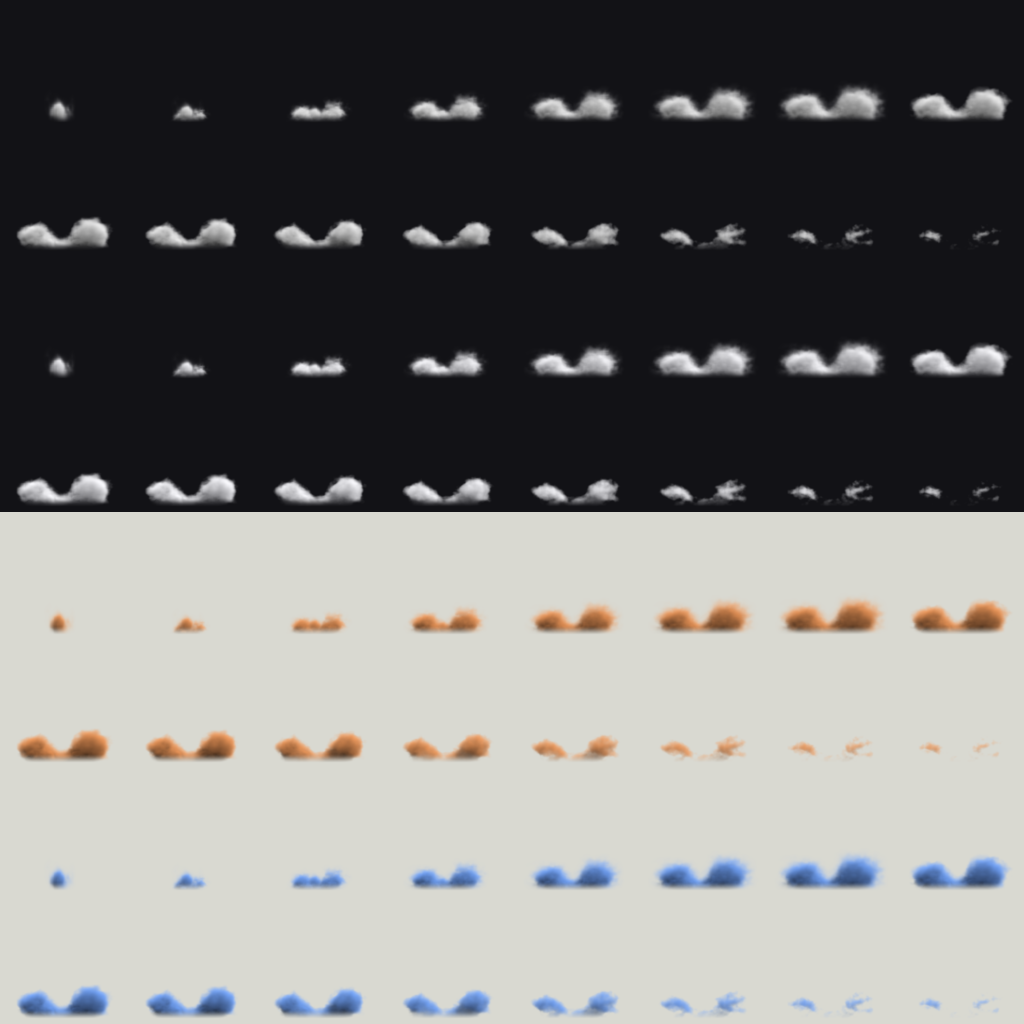
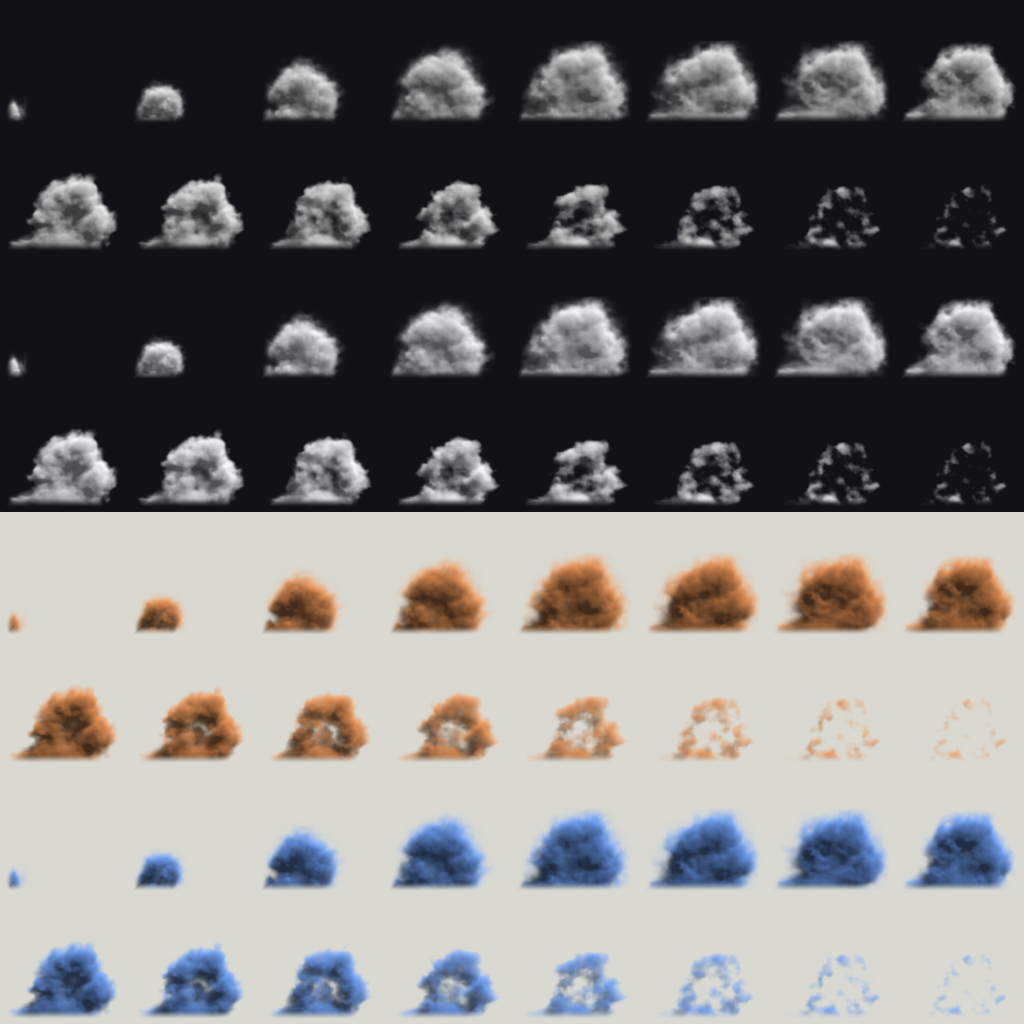
VFX ticket V1.1, VfxDustRoll try again: a rolling dust wave. A slam at the left sends a front to the right that billows into a tall rolling curl (a ring of cloudlets orbiting a core, top turning forward, with spray over it), leaving a low tapering body and wisps behind, the floor at the bottom of ev

diff --git a/art/scripts/vfx/tex_smoke.py b/art/scripts/vfx/tex_smoke.py
@@ -89,14 +89,14 @@ SIM["VfxSmokePlume"] = dict(
 )
 
 SIM["VfxDustRoll"] = dict(
-    # NOT a gas simulation (said in the Log): five baked sims of a floor burst (a ball, two jets, jets under a low
-    # ceiling, a slumping block, a heavy block) each rolled the dust up into lobes, a bush or a film instead of
-    # along the floor. So this is the volume route: a cast of billowing cloudlets flown out along the floor with
-    # drag (the fast ones are the head, the slow ones the body, long wisps trail), lit, eroded and packed like the
-    # others.
-    grid=8, mode="oneshot", cell=128, procedural="dust", frames=64, dims=(260, 36, 104),
+    # NOT a gas simulation (said in the Log): six baked sims of a floor burst (a ball, jets, jets under a ceiling,
+    # slumping blocks) all rolled the dust up into lobes or a bush, or slumped it into a film. So this is the volume
+    # route: a slam at the left sends a rolling wave to the right. The head is a ring of cloudlets orbiting a core
+    # (a torus seen from the side, the top turning forward), a low tapering body is left behind with wisps, spray
+    # stands over the head, and the rising cut eats it into islands. Lit and packed like the others.
+    grid=8, mode="oneshot", cell=128, procedural="dust", frames=64, dims=(240, 36, 152),
     look=dict(
-        sigma=lambda life: 0.24, sun=1.0, amb=0.55, fill=0.18, k_sun=0.5, k_amb=0.12, follow="floor", fit=0.82,
+        sigma=lambda life: 0.24, sun=1.0, amb=0.55, fill=0.18, k_sun=0.5, k_amb=0.12, follow="floor", fit=0.92,
         box_alpha=0.15,
     ),
 )
@@ -450,96 +450,106 @@ def mist_volume(k, n, dims):
 
 
 _DUST = {}
+DUST_X = (-0.1, 2.3)  # the grid's x range in the dust's own units (the hit is at x = 0, the wave runs to the right)
+DUST_Z = 1.45
 
 
-def dust_puffs(seed=4):
-    """The made-up cast of a dust roll, fixed by a seed: per side a run of cloudlets that leave the hit at different
-    speeds (so the fastest are the head and the slow ones are the body), the front ones bigger and rising, plus long
-    low wisps trailing behind. Each is (x end, radius end, rise, launch, speed, hardness, lump offset, kind)."""
+def dust_cast(seed=31):
+    """The made-up parts of the roll, fixed by a seed: the head is a ring of cloudlets that orbits a core (a rolling
+    torus seen from the side), the body is low flat sheets and long wisps that the head leaves behind, and a few puffs
+    of spray stand over the head."""
     rng = np.random.default_rng(seed)
-    cast = []
-    for side, scale in ((1.0, 1.0), (-1.0, 0.86)):
-        for i in range(22):
-            far = rng.uniform(0.22, 1.0) ** 0.8  # how far it ends (1 = the head)
-            cast.append(dict(side=side, kind="puff", x=0.70 * scale * far + rng.normal(0, 0.03),
-                             r=0.05 + 0.17 * far ** 0.9 * rng.uniform(0.65, 1.25), rise=0.30 * far ** 2.2 * rng.uniform(0.4, 1.2),
-                             t0=rng.uniform(0.0, 0.07), tau=rng.uniform(0.12, 0.2), y=rng.normal(0, 0.07),
-                             amp=rng.uniform(0.75, 1.0), off=rng.uniform(0, 60, 3)))
-        for i in range(9):  # the body: low flat sheets of dust between the hit and the head
-            far = rng.uniform(0.12, 0.62)
-            cast.append(dict(side=side, kind="sheet", x=0.70 * scale * far, r=0.07 + 0.04 * rng.random(), rise=0.02 * rng.random(),
-                             t0=rng.uniform(0.0, 0.08), tau=rng.uniform(0.14, 0.22), y=rng.normal(0, 0.08),
-                             amp=rng.uniform(0.55, 0.8), off=rng.uniform(0, 60, 3)))
-        for i in range(10):  # the trailing wisps: long, low, faint, left behind
-            far = rng.uniform(0.2, 0.8)
-            cast.append(dict(side=side, kind="wisp", x=0.72 * scale * far, r=0.045 + 0.04 * rng.random(), rise=0.03 * rng.random(),
-                             t0=rng.uniform(0.02, 0.16), tau=rng.uniform(0.14, 0.24), y=rng.normal(0, 0.08),
-                             amp=rng.uniform(0.35, 0.6), off=rng.uniform(0, 60, 3)))
-    return cast
+    ring = [dict(th=2 * np.pi * i / 20 + rng.normal(0, 0.12), rr=rng.uniform(0.85, 1.15), y=rng.normal(0, 0.09),
+                 sz=rng.uniform(0.8, 1.25), off=rng.uniform(0, 60, 3)) for i in range(20)]
+    sheets = [dict(x=rng.uniform(0.15, 1.0), R=0.0, t0=rng.uniform(0.0, 0.1), tau=rng.uniform(0.14, 0.24),
+                   y=rng.normal(0, 0.1), amp=rng.uniform(0.6, 0.9), off=rng.uniform(0, 60, 3), kind="sheet") for i in range(16)]
+    for sh in sheets:
+        sh["R"] = 0.06 + 0.10 * sh["x"]
+    wisps = [dict(x=rng.uniform(0.05, 0.85), R=0.05 + 0.04 * rng.random(), t0=rng.uniform(0.04, 0.2),
+                  tau=rng.uniform(0.14, 0.26), y=rng.normal(0, 0.1), amp=rng.uniform(0.35, 0.6), off=rng.uniform(0, 60, 3),
+                  kind="wisp") for i in range(10)]
+    spray = [dict(ang=np.radians(rng.uniform(-10, 85)), dist=rng.uniform(1.15, 1.6), R=rng.uniform(0.06, 0.12),
+                  y=rng.normal(0, 0.1), amp=rng.uniform(0.7, 1.0), off=rng.uniform(0, 60, 3), lag=rng.uniform(0.0, 0.1))
+             for i in range(8)]
+    return dict(ring=ring, body=sheets + wisps, spray=spray)
 
 
 def dust_volume(k, n, dims):
-    """Frame k of n of dust rolling along the floor from a hit at the middle. The cast of cloudlets (dust_puffs) is
-    flown out along the floor with drag (fast ones stop far, slow ones near), each growing and billowing with lumps
-    that belong to it, thinning as it spreads; the hit's own puff stands over the origin and sinks; then the rising
-    cut eats the whole thing from its thin parts first into islands. Index order (x, depth, up); z = 0 is the floor."""
-    if "lump" not in _DUST:
+    """Frame k of n of dust rolling along the floor from a slam at the left, seen from the side: the front runs to the
+    right and billows up into a tall rolling curl (a ring of cloudlets orbiting a core, top turning forward), the body
+    it leaves behind is a long low wedge that tapers to the left and sinks into wisps; lumps belong to each cloudlet;
+    the rising cut at the end eats the whole thing from its thin parts into islands. Index (x, depth, up), z = 0 floor."""
+    if "cast" not in _DUST:
+        _DUST["cast"] = dust_cast()
         _DUST["lump"] = lump_tile(9)
-        _DUST["cast"] = dust_puffs()
-    tile, cast = _DUST["lump"], _DUST["cast"]
+    cast, tile = _DUST["cast"], _DUST["lump"]
     nx, ny, nz = dims
     tau = k / (n - 1)
-    gx = np.linspace(-1.3, 1.3, nx, dtype=np.float32)
-    gy = np.linspace(-0.3, 0.3, ny, dtype=np.float32)
-    gz = np.linspace(0.0, 1.04, nz, dtype=np.float32)
-    free = np.ones((nx, ny, nz), dtype=np.float32)  # 1 - (union of cloudlets): they merge instead of adding up
+    gx = np.linspace(DUST_X[0], DUST_X[1], nx, dtype=np.float32)
+    gy = np.linspace(-0.35, 0.35, ny, dtype=np.float32)
+    gz = np.linspace(0.0, DUST_Z, nz, dtype=np.float32)
+    free = np.ones((nx, ny, nz), dtype=np.float32)  # 1 - the union of the cloudlets: they merge instead of adding
     sx, sy, sz = gx[1] - gx[0], gy[1] - gy[0], gz[1] - gz[0]
 
-    def splat(cx, cy, cz, rx, ry, rz, amp, off, lumpy_scale):
-        x0, x1 = max(0, int((cx - 2.3 * rx + 1.3) / sx)), min(nx, int((cx + 2.3 * rx + 1.3) / sx) + 2)
-        y0, y1 = max(0, int((cy - 2.3 * ry + 0.3) / sy)), min(ny, int((cy + 2.3 * ry + 0.3) / sy) + 2)
-        z0, z1 = 0, min(nz, int((cz + 2.3 * rz) / sz) + 2)
-        if x1 <= x0 or y1 <= y0 or z1 <= z0:
+    def splat(cx, cy, cz, rx, ry, rz, amp, off, scale):
+        x0, x1 = max(0, int((cx - 2.3 * rx - DUST_X[0]) / sx)), min(nx, int((cx + 2.3 * rx - DUST_X[0]) / sx) + 2)
+        y0, y1 = max(0, int((cy - 2.3 * ry + 0.35) / sy)), min(ny, int((cy + 2.3 * ry + 0.35) / sy) + 2)
+        z1 = min(nz, int((cz + 2.3 * rz) / sz) + 2)
+        if x1 <= x0 or y1 <= y0 or z1 <= 0:
             return
         X = (gx[x0:x1] - cx)[:, None, None]
         Y = (gy[y0:y1] - cy)[None, :, None]
-        Z = (gz[z0:z1] - cz)[None, None, :]
+        Z = (gz[0:z1] - cz)[None, None, :]
         r2 = (X / rx) ** 2 + (Y / ry) ** 2 + (Z / rz) ** 2
-        # the lumps belong to the cloudlet: a noise cube looked up relative to its centre and size
-        qx = ((X / rx * lumpy_scale + off[0]).astype(np.int64)) % TILE_N
-        qy = ((Y / ry * lumpy_scale + off[1]).astype(np.int64)) % TILE_N
-        qz = ((Z / rz * lumpy_scale + off[2]).astype(np.int64)) % TILE_N
+        qx = ((X / rx * scale + off[0]).astype(np.int64)) % TILE_N
+        qy = ((Y / ry * scale + off[1]).astype(np.int64)) % TILE_N
+        qz = ((Z / rz * scale + off[2]).astype(np.int64)) % TILE_N
         n3 = tile[qx, qy, qz]
-        body = np.exp(-r2 * (0.9 + 1.7 * (1.0 - n3)))  # the lumps pinch the surface in, so the edge is cauliflower
+        body = np.exp(-r2 * (0.9 + 1.7 * (1.0 - n3)))  # the lumps pinch the surface in: a torn, cauliflower edge
         d = amp * np.clip(body * (0.35 + 1.3 * n3), 0, 1.4)
-        free[x0:x1, y0:y1, z0:z1] *= np.clip(1.0 - np.clip(d, 0, 1), 0, 1)
+        free[x0:x1, y0:y1, 0:z1] *= np.clip(1.0 - np.clip(d, 0, 1), 0, 1)
 
-    for c in cast:
+    # --- the head: a ring of cloudlets orbiting a core that runs forward
+    g = min(tau / 0.26, 1.0)
+    hs = 0.10 + 0.90 * (1 - (1 - g) ** 2.2)  # born small, full by about a fifth of the life
+    run = min(tau / 0.36, 1.0)
+    head_x = 0.10 + 0.95 * (1 - (1 - run) ** 2.0) + 0.07 * tau
+    Rh, rc = 0.40 * hs, 0.21 * hs
+    head_z = 0.95 * Rh + 0.07
+    spin = 2 * np.pi * 1.15 * min(tau, 0.85)  # the top turns forward, the underside back along the floor
+    for c in cast["ring"]:
+        th = c["th"] - spin
+        cx = head_x + Rh * c["rr"] * np.cos(th)
+        cz = head_z + Rh * c["rr"] * np.sin(th) * 1.28  # a little taller than wide: a curl, not a wheel
+        R = rc * c["sz"]
+        splat(cx, c["y"], cz, R * 1.15, R * 1.3, R * 0.95, 1.0, c["off"], 13.0)
+    splat(head_x, 0.0, head_z, Rh * 0.62, Rh * 0.8, Rh * 0.62, 0.62, np.array([3.0, 7.0, 11.0]), 11.0)  # the core, thin
+    for c in cast["spray"]:  # puffs flung up and ahead from the head's top
+        t = max(0.0, tau - c["lag"])
+        sc = min(t / 0.2, 1.0)
+        cx = head_x + np.cos(c["ang"]) * Rh * c["dist"] * sc
+        cz = head_z + np.sin(c["ang"]) * Rh * 1.2 * c["dist"] * sc + 0.02
+        if sc > 0:
+            splat(cx, c["y"], cz, c["R"] * hs * 2.2, c["R"] * hs * 2.4, c["R"] * hs * 2.0, c["amp"] * min(1.0, sc * 3), c["off"], 14.0)
+    # --- the body the head leaves behind: low sheets and wisps, nearer the origin the thinner
+    for c in cast["body"]:
         t = tau - c["t0"]
         if t <= 0:
             continue
         move = 1 - np.exp(-t / c["tau"])
-        cx = c["side"] * (0.02 + (c["x"] - 0.02) * move)
-        grow = 1 - np.exp(-t / (c["tau"] * 1.3))
-        R = 0.02 + (c["r"] - 0.02) * grow
-        cz = 0.7 * R + c["rise"] * move
-        if c["kind"] == "puff":
-            amp = c["amp"] * min(1.0, t / 0.025) * (0.03 / R) ** 0.55 * 1.9
-            splat(cx, c["y"], cz, R * 1.15, R * 1.3, R * 0.95, amp, c["off"], 13.0)
-        elif c["kind"] == "sheet":
-            amp = c["amp"] * min(1.0, t / 0.03) * (0.06 / R) ** 0.4
-            splat(cx, c["y"], 0.8 * R + c["rise"] * move, R * 3.4, R * 1.5, R * 1.25, amp, c["off"], 14.0)
-        else:  # a wisp: stretched along the floor and thin
-            amp = c["amp"] * min(1.0, t / 0.04) * (0.05 / R) ** 0.4
-            splat(cx, c["y"], 0.5 * R, R * 3.2, R * 1.2, R * 0.55, amp, c["off"], 16.0)
-    # the hit's own puff over the origin: stands up fast, then sinks into the roll
-    hz = 0.09 + 0.10 * np.exp(-tau * 6.0)
-    splat(0.0, 0.0, hz, 0.13 + 0.05 * tau, 0.15, hz * 1.1, 1.15 * (1 - smoothstep(0.08, 0.34, tau)), np.array([5.0, 9.0, 13.0]), 8.0)
+        cx = 0.04 + (c["x"] * min(1.0, head_x / 1.05)) * move
+        R = 0.02 + (c["R"] - 0.02) * (1 - np.exp(-t / (c["tau"] * 1.3)))
+        if c["kind"] == "sheet":
+            splat(cx, c["y"], 0.8 * R, R * 3.4, R * 1.5, R * 1.25, c["amp"] * min(1.0, t / 0.03) * (0.07 / R) ** 0.35, c["off"], 14.0)
+        else:
+            splat(cx, c["y"], 0.5 * R, R * 3.6, R * 1.2, R * 0.55, c["amp"] * min(1.0, t / 0.04), c["off"], 16.0)
+    # the slam's own puff over the origin: stands up fast and sinks into the body
+    hz = 0.08 + 0.10 * np.exp(-tau * 6.0)
+    splat(0.06, 0.0, hz, 0.12, 0.14, hz * 1.1, 1.1 * (1 - smoothstep(0.06, 0.32, tau)), np.array([5.0, 9.0, 13.0]), 9.0)
     d = 1.0 - free
-    # the rising cut: eaten from its thin parts first, in lumps, islands at the end
-    if tau > 0.40:
-        cut = 3.4 * ((tau - 0.40) / 0.60) ** 1.1
-        eat = N.fbm3(gx[:, None, None] * 4.0 + 3.0 * tau, gz[None, None, :] * 5.0, gy[None, :, None] * 4.0, octaves=4, seed=77)
+    if tau > 0.42:  # eaten from its thin parts first, in lumps, islands at the end
+        cut = 3.2 * ((tau - 0.42) / 0.58) ** 1.1
+        eat = N.fbm3(gx[:, None, None] * 3.5 + 3.0 * tau, gz[None, None, :] * 4.5, gy[None, :, None] * 4.0, octaves=4, seed=77)
         d = np.maximum(d - cut * (0.12 + 0.55 * (0.5 + eat)), 0.0)
     return blur3(d.astype(np.float32))
 

diff --git a/docs/handoff/vfx-rework-plan-2026-11-16.md b/docs/handoff/vfx-rework-plan-2026-11-16.md
@@ -631,3 +631,4 @@ verdict where there was a gate.)
 - 2026-11-17, V1.7 meshes, the MESH half (art/scripts/vfx/meshes.py, new art/scripts/vfx/check_meshes.py, art/export/previews/vfx/after/meshes_uv_sheet.png; no Luau, nothing to sync or import yet; the Fx import comes at the end of Stage 1). The one UV rule now: u runs ONCE round the shape's axis (0 to 1, seam on +X, closed, one lattice step wide like every column), v runs UP it (0 at the base or foot, 1 at the tip; Blender's v counts up, so an upright picture stands upright). Per shape, what the UV did before and does now: VfxRing (flat: u round once, v inner edge 0 to outer 1; was u across, v round twice), VfxDome (u round once, v rim 0 to top 1; was swapped, v round twice), VfxTube (u once, v foot 0 to top 1; was u twice round, v = 1 - up), VfxCone (same; the old text said v 0 at the foot, the code gave 1), VfxSwirl (a helical band: u along the ribbon once from its foot, v across from lower edge 0 to upper 1; was u across, v along three times), VfxCrescent (a band: u along from tail 0 to head 1, v across from inner 0 to outer cutting edge 1; was u across, v along with 1 at the tail), VfxSphere (u once, v south pole 0 to north 1; was u twice, v = 1 - up; its rows stop 0.4% short of the poles, a hole nothing shows, and a texture pinches there), VfxShard (the lower point's u sat on a face's edge so each lower face's picture leaned; now the middle of its column, and each belt vertex's v is its own height instead of 0.45), VfxRock (was a plan view, u = x, v = y, so its sides smeared; now round the Z axis, v lowest to highest, the faces over the +X seam cut in two there, 25 triangles instead of 20, nothing stretches). Unchanged because they already followed the rule: VfxSpikes (each spike u round, v root 0 to tip 1) and VfxPage (flat: u across, v up). Nothing in `src` puts a texture on any of these but the Manual's page (Godhood.luau), which did not change, so no caller's look moved. Three new shapes, added to BUILDERS (so the NEXT full export carries them): VfxSlashArc (a 100 degree blade of radius 1 centred on +X in the ground's plane, 0.01 wide at both tips, 0.31 in the middle, cupped 0.3 of its width; u along the arc tail 0 to head 1, v across inner 0 to outer cutting edge 1; 384 triangles), VfxTwister (a funnel open at both ends, radius 0.12 at its foot z 0 to 1 at its top z 2, the wall three lobes that twist 1.25 turns up it and swell as they rise, the axis wandering 0.06; u round once along the lobes' own spiral, v foot 0 to top 1; 1152 triangles), VfxShell (a full sphere of radius 1 drawn on both sides, 32 by 16; each pole is ONE vertex with a fan whose corner takes the middle of its own column, so seen from above the pole is a clean fan and nothing swirls; the last 1/16 of the texture's rows at each end is the pole cap, so a texture for it keeps its top and bottom rows quiet; 1920 triangles). A thing found on the way and fixed for every doubled shape: a face and its back twin share every vertex, so Blender gave their corner normals as zero vectors or the front's pushed onto the back (corner normal against its own face normal: -1.00 on ring, dome, tube, cone, swirl, crescent, page). Neon and ForceField hide this; a lit SurfaceAppearance texture would shade wrongly. `_two_sided_normals` now sets custom normals (the front faces' average at each place, the back face the opposite); every doubled shape reads 0.7 to 1.00 and the normals survive an FBX export and re-import into a scratch folder (the repo's FBX was not touched). check_meshes (`blender -b --factory-startup --python art/scripts/vfx/check_meshes.py -- [--no-render] [--scratch DIR] [--sheet PNG]`), 2026-11-17: 14 shapes, 0 failed. Every shape has all UVs inside 0..1, u and v each spanning 0.000 to 1.000, no degenerate faces, the seam closed on the 10 that wrap, the seam's texture density 1.00 of its row's median on ring, dome, tube, cone, sphere, shell and 1.23 on the twister (its seam sits on a lobe crest, so the real surface is wider there), the most triangles 4096 (the dome; the importer refuses 20,000). The contact sheet art/export/previews/vfx/after/meshes_uv_sheet.png has the three new shapes and all eleven old ones under a test picture (u as hue, which goes once round, v as brightness, dark at 0 and bright at 1, a 16 by 16 checker over both): views A and B from two sides, C square on to the seam, or from above for a shape with a pole. By eye: the rainbow runs round every tube, cone, dome, sphere, shell and twister and the brightness climbs foot to tip; the ring's and crescent's and slash arc's rainbow runs along them and the brightness across; the twister's stripes wind up it and its top view is a spiral; the shell and sphere from above show a clean fan, no pinch point; no seam jump anywhere. Weak: the twister is a wide short funnel (2 tall, 2 across at the top) and at small size reads as a bowl as much as wind; the slash arc is plain (one cup, no twist); VfxShell's 1920 and VfxDome's 4096 triangles are not "a few hundred" (the double drawing doubles them; far under the limit). The four Fx* props in props_fx.py (FxDome, FxRing, FxCrescent, FxSpikes) are baked Core props, not part of this file's UV rule, and were not touched. NOT done (still open for V1.7): the Studio SurfaceAppearance test (AlphaMode Transparency fade, Color tint, EmissiveStrength/EmissiveTint) because it needs Studio; the full export and the ModelsFx 3 to 4 bump (the FBX, ImportVersions and Props were not touched); `Shape.luau` knows nothing of the three new meshes (it needs KEYS and MADE entries: VfxSlashArc 2 x 2 x 0.1 flat like VfxCrescent, VfxTwister 2 x 2 x 2 standing on its foot like the cone, VfxShell 2 x 2 x 2 centred like the sphere, so `lift` must treat "shell" like "sphere"); Stage 2's V2.6 is where a texture goes on them. Not checked: nothing was lit or seen in Roblox, the real FBX was not rebuilt, how Roblox treats the doubled faces' normals was not seen, no texture other than the test picture was tried.
 - 2026-11-17, V1.1 send-back rework: VfxDustRoll and VfxMist (art/scripts/vfx/tex_smoke.py, the two PNGs and their previews; nothing to sync or import). VfxSmokePuff and VfxSmokePlume unchanged (accepted). `VfxMist` is rebuilt as a bank: five hand-set soft layers (thickness 0.24 to 0.30 of the bank, low to high) broken into long patches by noise stretched along the bank, each layer drifting one whole noise period per loop (alternating directions, so frame 16 is frame 0 again), fading to nothing before the cell's sides and top and bottom so there is no outline, lit softly from above (darker below) and with the thin edge pulled to the frame's mean grey so no bright rim shows round it. Still not a simulation (the plan's fallback, same reason as before). Numbers: fill 77% (76% mean), edge 0/16, tone 0.128, motion 0.019 (wrap 0.017), PASS. Against smoke_dust_fog: the reference is an edgeless mass with slow curls and bright and dark sides; ours is now a wide soft haze with no outline, brighter at the top and drifting in layers, but its layers are faint (the bands read as a gentle horizontal grain, not clear strata), it fills the whole cell like a block of haze with slightly squared corners, and it has no curls. `VfxDustRoll` is rebuilt as dust spreading along the floor from a hit, seen from the side, with the floor kept at the bottom of every cell and NO vertical stretch. It is NOT a gas simulation: the baked sims tried (a swelling ball on the floor, two outward jets along it, jets under a low closed ceiling, a heavy block slumping with positive and with negative buoyancy density, a long low block) each either rolled the dust up into lobes or a bush or slumped it into a film a few voxels thin that could not be read; the plan's own fallback applies. So it is the volume route: a made-up cast of about 40 billowing cloudlets per side flown out along the floor with drag (the fast, big, higher ones are the head and outrun the rest, the slow ones are the body, low flat sheets fill between, long faint wisps trail), each with its own noise lumps carried with it, the hit's own puff standing over the origin and sinking, lit with the same ray-march, then eaten from its thin parts by a rising noise cut into islands. Numbers: fill 24% at the largest cell (mean 14%), edge 0/64, tone 0.159, motion 0.004, erosion cov 10%>1% islands 1>5; the check FAILS on fill (needs 55%) and motion (needs 0.01), PASS on size, edge, tone and erosion. Why those two fail and are left failing: a mass that is honestly low and wide is about 0.4 as tall as it is wide at its tallest, so with 82% of the cell width used (the rest is the cell margin and the edge fade) its box is 82% x 30% = about 25% of the cell, and a mass that covers a quarter of the cell cannot move the cell-wide mean step above 0.01. It could only pass by stretching it tall or by cutting the cell to a part of the cloud, which was ruled out. Against smoke_dust_impact_fine (the 14 to 15.5 s ground sheet and the ring): the reference is a flat wedge with a pointed tail on one side and puffs on the other, hollow in the ring; ours is two lumpy mounds spreading apart along the floor (the head higher and bigger, the body a lower saddle between them, wisps at the end), fast at the front and thinning into islands, so it does read as dust going out along the ground, but there is no forward curl to the head (the head is a lump, not a roll), the lumps are noise lumps (round and a little soft, not torn), and the tail is not a long pointed wedge. Not clearly better than the old VfxDust by eye, but it is the only one of the two that erodes, spreads along the floor and is lit; the old VfxDust stays in use until the pilot or the owner chooses. Plain verdict for the coordinator: the mist is no longer a blob but is a modest haze; the dust still fails two of the six checks and has no curl, so by the send-back's own rule it should go to the owner as it stands. Not seen in the engine.
 - 2026-11-17, coordinator, Stage 1 state: V1.1 to V1.6 are on main and every sheet passes check_textures EXCEPT VfxDustRoll (fill 24%, motion 0.004: a low wide dust mass cannot fill a square cell; sent back once, failed again, so it is the owner's call: keep the old VfxDust, or accept a failing DustRoll, or take the 2 more tries of a different approach). V1.7's mesh half is on main; its Studio emissive test, the full export and the ModelsFx 3 to 4 bump are still open. No texture has been seen in the engine.
+- 2026-11-17, V1.1 VfxDustRoll, the owner's "try again" (try 1 of 2; art/scripts/vfx/tex_smoke.py, VfxDustRoll.png and its preview; nothing to sync or import). New direction taken: a rolling wave, not a bar. A slam at the left sends a front to the right that billows up into a tall rolling curl; the floor line is at the bottom of every cell, there is no vertical stretch, and NO exemption was added to check_textures.py (every threshold is untouched). Still the volume route (no gas simulation; six baked sims of a floor burst had each rolled up or slumped, as the earlier Log line says), but the head is now what the coordinator asked for: a ring of 20 cloudlets orbiting a core that runs forward (a torus seen from the side, its top turning forward and its underside back along the floor, a little taller than wide so it reads as a curl), a thin core inside it, eight puffs of spray flung up and ahead of it, and behind it a low body of flat sheets and wisps that the head leaves and that sinks and thins towards the origin, each cloudlet with its own noise lumps (torn cauliflower edges), lit from above and one side with the same self-shadow march (lit top, dark underside, dark pockets between lumps), born small and full by about frame 17, then eaten from its thin parts by a rising noise cut into islands from 42% of the life. The mass moves across the cell (the head runs about 0.95 of the cell's width while it grows), which is what gives the motion. Numbers: fill 56% at the largest cell (mean 40%), edge 0/64, tone 0.192, motion 0.017, erosion cov 27%>2% islands 1>11, PASS on all six checks, no exemption. Against smoke_dust_impact_fine (S3, 0.5 to 0.75 s the rosette of cauliflower lumps with a dark gap in the middle; 14 to 15.5 s the ground sheet): ours has the rosette's torn lumps and its dark gaps between lumps, the sheet's low tail on the ground to the left, and it breaks into clumps at the end like the reference; it is a one-sided wave rather than the reference's centred ring, and the ring's clean hollow middle is only hinted by dark pockets. Honestly: it is clearly better than the old VfxDust (31% fill, a flat soft puff, never breaks up) as a dust cloud and it does travel and curl, but it reads more as one big billowing dust cloud with a short skirt than as a long wave: to reach 55% fill the body had to be kept short (the box is measured over the whole path, so a longer tail lowers the fill) and the head is big and round. The tail is a faint low skirt, not a long pointed wedge. Not seen in the engine, not tried over a lit floor or tinted by the game.
